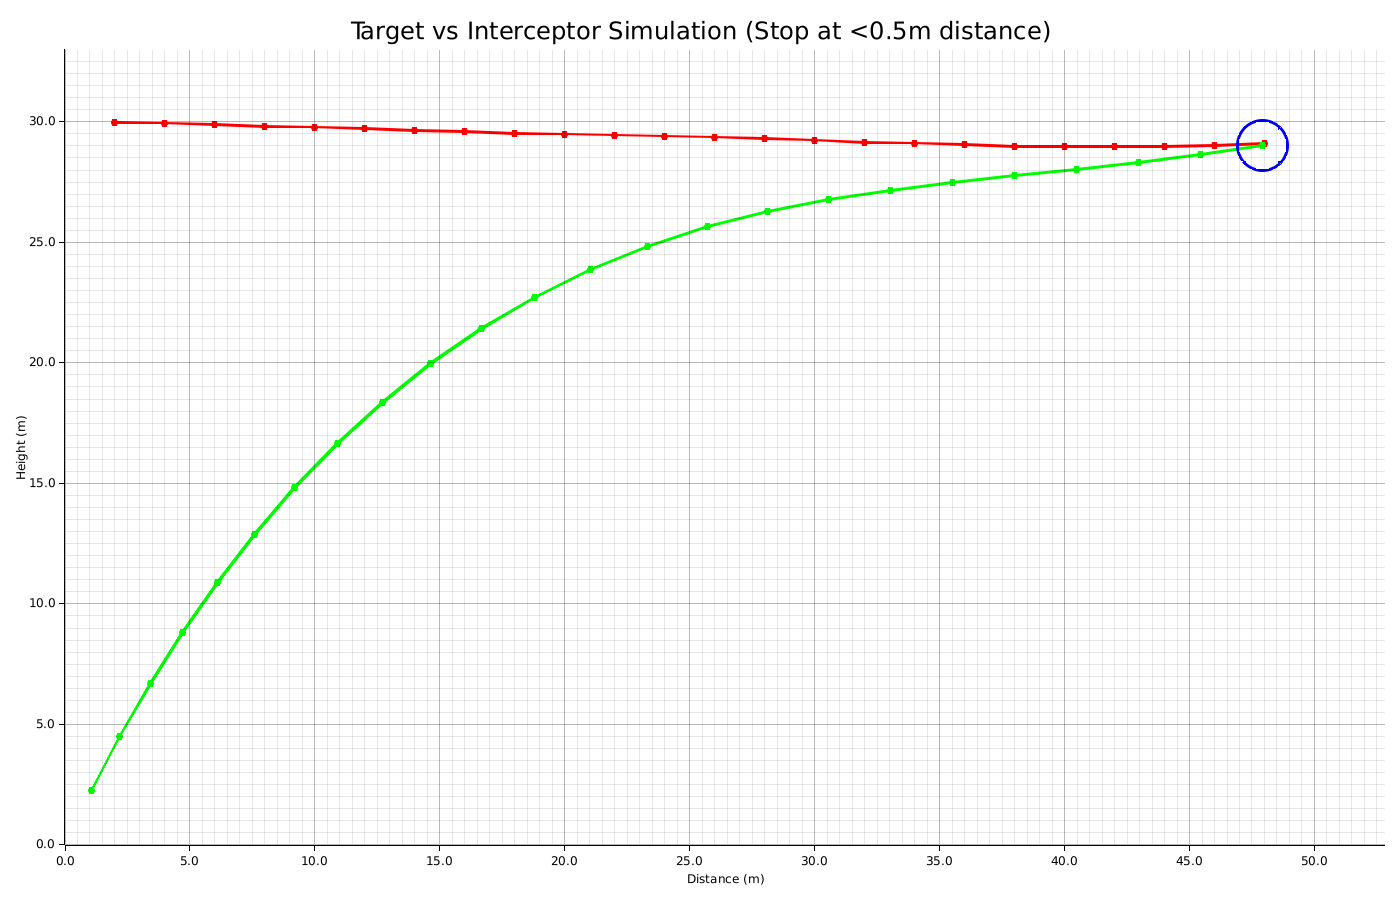
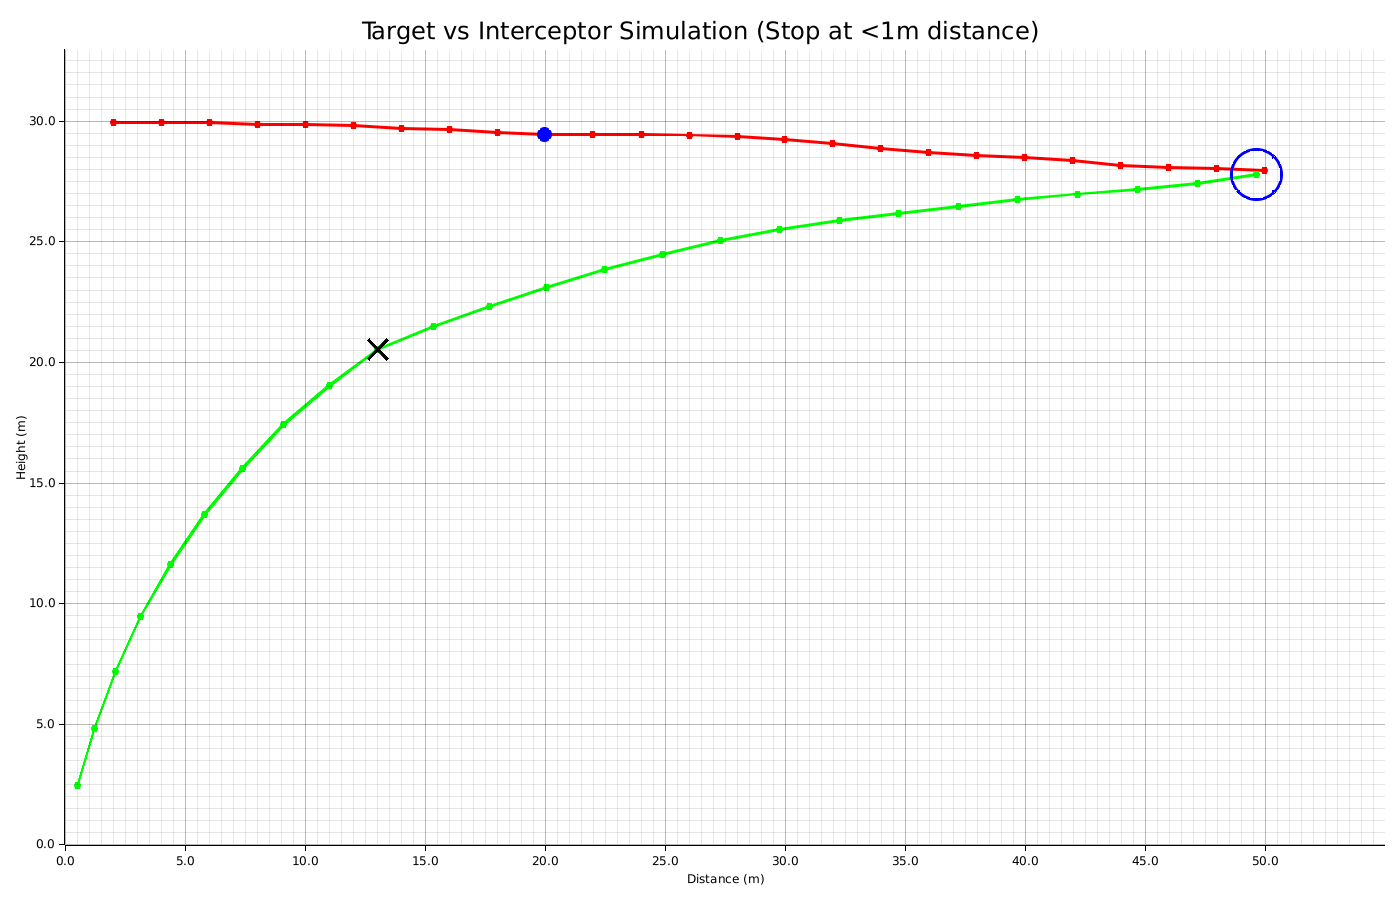
all params fixed

diff --git a/src/main.rs b/src/main.rs
@@ -1,5 +1,6 @@
 use plotters::prelude::*;
 use rand::Rng;
+const TERMINAL_DIST: f64 = 12.0;
 
 #[derive(Debug, Clone, Copy)]
 pub struct Target {
@@ -33,6 +34,14 @@ impl Target {
 }
 
 pub type Interceptor = Target;
+
+
+// const TERMINAL_DIST: f64 = 30.0;
+// let terminal_angle_deg: f64 = 35.0;
+// let aim_step = TERMINAL_DIST * 2.0;
+// let interceptor_speed = 2.0;
+// let random_angle_deg: f64 = rng.gen_range(-10.0..10.0);
+// let p_gain = 0.35;
 
 // Calculate steering direction towards target (unit vector)
 // Calculate unit steering direction from interceptor towards target
@@ -76,13 +85,13 @@ fn calculate_steering_direction(from: &Interceptor, to: &Target) -> (f64, f64) {
     // 2) Terminal angle forcing (close range)
     //    Rotate LOS by +/- theta to guarantee a crossing component.
     // ----------------------------
-    let terminal_dist = 300.0;      // start forcing inside this distance (tune 500..3000)
+     // start forcing inside this distance (tune 500..3000)
       // force this approach angle (tune 15..35)
     
-    let terminal_angle_deg: f64 = 25.0;
+    let terminal_angle_deg: f64 = 30.0;
     let theta = terminal_angle_deg.to_radians();
 
-    if r < terminal_dist {
+    if r < TERMINAL_DIST {
         // Unit LOS
         let lx = rx / r;
         let ly = ry / r;
@@ -105,7 +114,7 @@ fn calculate_steering_direction(from: &Interceptor, to: &Target) -> (f64, f64) {
         let diry = lx * s + ly * c;
 
         // Create a stable aim point along that rotated direction
-        let aim_step = 300.0; // tune 100..600
+        let aim_step = TERMINAL_DIST; // tune 100..600
         aim_x = from.x + dirx * aim_step;
         aim_y = from.y + diry * aim_step;
     } else {
@@ -126,7 +135,7 @@ fn calculate_steering_direction(from: &Interceptor, to: &Target) -> (f64, f64) {
             }
 
             // Small offset that grows with distance but is capped
-            let offset = (0.06 * r).clamp(0.0, 120.0);
+            let offset = (0.06 * r).clamp(0.0, 25.0);
             aim_x = lead_x + nx * offset;
             aim_y = lead_y + ny * offset;
         }
@@ -173,20 +182,23 @@ fn main() -> Result<(), Box<dyn std::error::Error>> {
     let mut interceptor_positions = vec![];
     let mut collision_point: Option<(f64, f64)> = None;
     let mut collision_angle: Option<f64> = None;
+    // const TERMINAL_DIST: f64 = 10.0;
 
-    let collision_threshold = 0.5; // Stop when closer than 0.5 m
+    let mut terminal_entry_points: Option<((f64, f64), (f64, f64))> = None; //interceptor        target
+    let mut prev_distance = f64::INFINITY;
+    let collision_threshold = 1.0; // Stop when closer than 1m, 0.5 m
     
     // Parameters that shape the target's evasive behavior
     let target_initial_height = 30.0; // Reference height for P correction
-    let correction_weight = 0.8; // Blend between random and corrective steering Weight of correction (0.0 = pure random, 1.0 = pure correction)
+    let correction_weight = 0.6; // Blend between random and corrective steering Weight of correction (0.0 = pure random, 1.0 = pure correction)
     let p_gain = 0.2; // Proportional gain for height error
 
     // Run discrete-time simulation
     for _step in 0..10000 {
         // Collision detection before update: check if we're already close
-        let distance = interceptor.distance_to(&target);
+        let distance_before = interceptor.distance_to(&target);
         
-        if distance < collision_threshold {
+        if distance_before < collision_threshold {
             collision_point = Some((target.x, target.y));
             
             // Calculate angle between velocity vectors
@@ -218,6 +230,20 @@ fn main() -> Result<(), Box<dyn std::error::Error>> {
         target.vx = rotated_vx;
         target.vy = rotated_vy;
         
+        let distance_after = interceptor.distance_to(&target);
+        // Capture FIRST entry into terminal range
+        if prev_distance >= TERMINAL_DIST
+            && distance_after < TERMINAL_DIST
+            && terminal_entry_points.is_none()
+        {
+            terminal_entry_points = Some((
+                (interceptor.x, interceptor.y),
+                (target.x, target.y),
+            ));
+        }
+        prev_distance = distance_after;
+
+
         // Interceptor points directly toward the target every step
         let (mut dir_x, mut dir_y) = calculate_steering_direction(&interceptor, &target);
         
@@ -245,6 +271,10 @@ fn main() -> Result<(), Box<dyn std::error::Error>> {
     if collision_point.is_some() {
         if let Some((cx, cy)) = collision_point {
             println!("✅ Collision at position x={:.1}, y={:.1}", cx, cy);
+        }
+        if let Some(((ax, ay), (bx, by))) = terminal_entry_points {
+            println!("✅ Interceptor terminal entry at x={:.1}, y={:.1}", ax, ay);
+            println!("✅ Target terminal entry at x={:.1}, y={:.1}", bx, by);
         }        
         if let Some(angle) = collision_angle {
             if angle > 5.0 {
@@ -258,7 +288,7 @@ fn main() -> Result<(), Box<dyn std::error::Error>> {
     }
 
     // Visualization
-    visualize_simulation(&target_positions, &interceptor_positions)?;
+    visualize_simulation(&target_positions, &interceptor_positions, terminal_entry_points)?;
 
     Ok(())
 }
@@ -268,6 +298,7 @@ fn main() -> Result<(), Box<dyn std::error::Error>> {
 fn visualize_simulation(
     target_positions: &[(f64, f64)],
     interceptor_positions: &[(f64, f64)],
+    terminal_entry_points: Option<((f64, f64), (f64, f64))>,
 ) -> Result<(), Box<dyn std::error::Error>> {
     let root = BitMapBackend::new("collision_simulation0.png", (1400, 900)).into_drawing_area();
     root.fill(&WHITE)?;
@@ -289,7 +320,7 @@ fn visualize_simulation(
 
     // Configure chart canvas and axes
     let mut chart = ChartBuilder::on(&root)
-        .caption("Target vs Interceptor Simulation (Stop at <0.5m distance)", ("sans-serif", 30))
+        .caption("Target vs Interceptor Simulation (Stop at <1m distance)", ("sans-serif", 30))
         .margin(15)
         .x_label_area_size(40)
         .y_label_area_size(50)
@@ -342,7 +373,26 @@ fn visualize_simulation(
             ShapeStyle::from(&BLUE).stroke_width(3),
         )))?;
     }
-
+    if let Some(((ix, iy), (tx, ty))) = terminal_entry_points {
+        let size = 0.40;
+    
+        // Interceptor terminal entry — X marker (black)
+        chart.draw_series(std::iter::once(PathElement::new(
+            vec![(ix - size, iy - size), (ix + size, iy + size)],
+            ShapeStyle::from(&BLACK).stroke_width(3),
+        )))?;
+        chart.draw_series(std::iter::once(PathElement::new(
+            vec![(ix - size, iy + size), (ix + size, iy - size)],
+            ShapeStyle::from(&BLACK).stroke_width(3),
+        )))?;
+    
+        // Target terminal entry — circle (blue)
+        chart.draw_series(std::iter::once(Circle::new(
+            (tx, ty),
+            7,
+            ShapeStyle::from(&BLUE).filled(),
+        )))?;
+    }    
 
     // Configure axes
     chart
